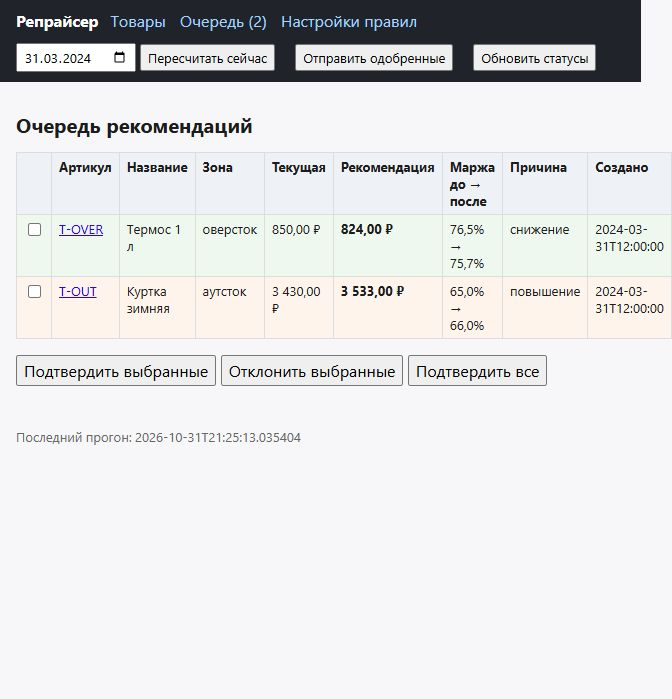
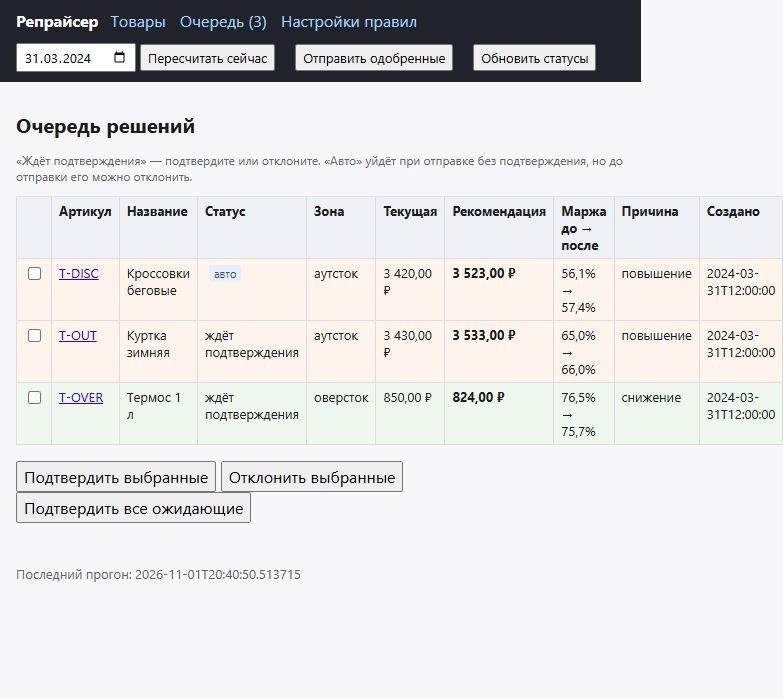
Отклонение авто-решений из очереди
- очередь показывает ожидающие подтверждения и авто с пометкой «авто»
- подтверждение действует только на pending, отклонение — на pending и auto
- счётчик очереди учитывает оба статуса
- тесты: авто в очереди, отклонение, approve не трогает auto
- обновлены README, PLAN, TESTING и скриншот очереди

diff --git a/src/repricer/web/templates/queue.html b/src/repricer/web/templates/queue.html
@@ -1,6 +1,8 @@
 {% extends "base.html" %}
 {% block content %}
-<h1>Очередь рекомендаций</h1>
+<h1>Очередь решений</h1>
+<p class="hint">«Ждёт подтверждения» — подтвердите или отклоните. «Авто» уйдёт при отправке без
+подтверждения, но до отправки его можно отклонить.</p>
 {% if not rows %}
 <p>Очередь пуста.</p>
 {% else %}
@@ -11,6 +13,7 @@
             <th></th>
             <th>Артикул</th>
             <th>Название</th>
+            <th>Статус</th>
             <th>Зона</th>
             <th>Текущая</th>
             <th>Рекомендация</th>
@@ -25,6 +28,7 @@
             <td><input type="checkbox" name="ids" value="{{ row.id }}"></td>
             <td><a href="/product/{{ row.vendor_code }}">{{ row.vendor_code }}</a></td>
             <td>{{ row.name }}</td>
+            <td>{% if row.status == 'auto' %}<span class="tag">авто</span>{% else %}ждёт подтверждения{% endif %}</td>
             <td>{{ zone_label(row.zone) }}</td>
             <td>{{ rub(row.current_price_kopecks) }}</td>
             <td><b>{{ rub(row.recommended_price_kopecks) }}</b></td>
@@ -38,7 +42,7 @@
     <p>
         <button type="submit" name="action" value="approve">Подтвердить выбранные</button>
         <button type="submit" name="action" value="reject">Отклонить выбранные</button>
-        <button type="submit" name="action" value="approve" onclick="document.querySelectorAll('input[name=ids]').forEach(c=>c.checked=true)">Подтвердить все</button>
+        <button type="submit" name="action" value="approve" onclick="document.querySelectorAll('input[name=ids]').forEach(c=>c.checked=true)">Подтвердить все ожидающие</button>
     </p>
 </form>
 {% endif %}

diff --git a/src/repricer/app/service.py b/src/repricer/app/service.py
@@ -273,26 +273,36 @@ class RepricerService:
 
     # --- очередь --------------------------------------------------------
     def approve(self, decision_ids: Iterable[int] | None = None) -> int:
-        return self._set_status(decision_ids, from_status=STATUS_PENDING, to_status=STATUS_APPROVED, event="approved")
+        return self._set_status(
+            decision_ids,
+            from_statuses=(STATUS_PENDING,),
+            to_status=STATUS_APPROVED,
+            event="approved",
+        )
 
     def reject(self, decision_ids: Iterable[int] | None = None) -> int:
-        return self._set_status(decision_ids, from_status=STATUS_PENDING, to_status=STATUS_REJECTED, event="rejected")
+        return self._set_status(
+            decision_ids,
+            from_statuses=(STATUS_PENDING, STATUS_AUTO),
+            to_status=STATUS_REJECTED,
+            event="rejected",
+        )
 
     def _set_status(
         self,
         decision_ids: Iterable[int] | None,
         *,
-        from_status: str,
+        from_statuses: tuple[str, ...],
         to_status: str,
         event: str,
     ) -> int:
         if decision_ids is None:
-            rows = self.repo.list_decisions((from_status,))
+            rows = self.repo.list_decisions(from_statuses)
         else:
             rows = [
                 row
                 for row in (self.repo.get_decision(int(i)) for i in decision_ids)
-                if row and row["status"] == from_status
+                if row and row["status"] in from_statuses
             ]
         now = self.clock()
         for row in rows:
@@ -482,7 +492,8 @@ class RepricerService:
         return rows
 
     def queue(self) -> list[dict]:
-        return self.repo.list_decisions((STATUS_PENDING,))
+        """Решения, которые ещё не отправлены: ждут подтверждения и авто."""
+        return self.repo.list_decisions((STATUS_PENDING, STATUS_AUTO))
 
     def journal(self, vendor_code: str | None = None) -> list[dict]:
         return self.repo.journal(vendor_code=vendor_code)

diff --git a/tests/test_pipeline.py b/tests/test_pipeline.py
@@ -102,6 +102,31 @@ def test_auto_rerun_does_not_duplicate(tmp_path, start_emulator):
     assert len(repo.list_decisions(("auto", "sent"))) == 1
 
 
+def test_auto_is_visible_in_queue_and_can_be_rejected(tmp_path, start_emulator):
+    service, client, repo = build(tmp_path, start_emulator, default_goods())
+    repo.set_mode("SKU-OUT", "auto", at=AS_OF)
+    service.run(as_of=AS_OF)
+
+    assert [row["status"] for row in service.queue()] == ["auto"]
+
+    assert service.reject() == 1
+    assert repo.list_decisions(("auto",)) == []
+    assert [row["vendor_code"] for row in repo.list_decisions(("rejected",))] == ["SKU-OUT"]
+
+    assert service.send()["sent"] == 0
+    market = {good.vendor_code: good for good in client.list_goods()}
+    assert market["SKU-OUT"].discounted_price_kopecks == 149000
+
+
+def test_approve_does_not_touch_auto(tmp_path, start_emulator):
+    service, _client, repo = build(tmp_path, start_emulator, default_goods())
+    repo.set_mode("SKU-OUT", "auto", at=AS_OF)
+    service.run(as_of=AS_OF)
+
+    assert service.approve() == 0
+    assert [row["status"] for row in service.queue()] == ["auto"]
+
+
 def test_approved_is_not_duplicated_before_send(tmp_path, start_emulator):
     service, _client, repo = build(tmp_path, start_emulator, default_goods())
     repo.set_mode("SKU-OUT", "recommend", at=AS_OF)

diff --git a/tests/test_web.py b/tests/test_web.py
@@ -115,6 +115,26 @@ def test_reject_hides_from_queue(tmp_path, start_emulator):
     assert repo.list_decisions(("rejected",))
 
 
+def test_auto_decision_is_shown_and_rejectable_in_queue(tmp_path, start_emulator):
+    client, _service, repo = build(tmp_path, start_emulator)
+    repo.set_mode("T-OVER", "auto", at=datetime(2024, 3, 31, 12, 0, 0))
+    client.post("/run", data={"as_of": AS_OF}, follow_redirects=False)
+
+    page = client.get("/queue")
+    assert "T-OVER" in page.text
+    assert "авто" in page.text
+
+    decision_id = repo.list_decisions(("auto",))[0]["id"]
+    client.post(
+        "/queue/decision",
+        data={"action": "reject", "ids": str(decision_id)},
+        follow_redirects=False,
+    )
+
+    assert [row["vendor_code"] for row in repo.list_decisions(("rejected",))] == ["T-OVER"]
+    assert "T-OVER" not in client.get("/queue").text
+
+
 def test_settings_page_updates_global_rules(tmp_path, start_emulator):
     client, service, _repo = build(tmp_path, start_emulator)
 

diff --git a/TESTING.md b/TESTING.md
@@ -18,8 +18,10 @@
    `Прогон: товаров 17, изменений 9, новых рекомендаций 0` — все товары в режиме «выключен»,
    рекомендации не создаются, диагностика видна.
 3. В таблице у `T-OUT`, `T-OVER` поставить режим «рекомендация», у `T-DISC` — «авто».
-4. «Пересчитать сейчас» → `новых рекомендаций 3`; ссылка «Очередь (2)».
-5. Открыть «Очередь», «Подтвердить все» → `Подтверждено: 2`.
+4. «Пересчитать сейчас» → `новых рекомендаций 3`; ссылка «Очередь (3)»: два решения ждут
+   подтверждения, `T-DISC` — «авто».
+5. Открыть «Очередь», «Подтвердить все ожидающие» → `Подтверждено: 2` (авто подтверждения
+   не требует).
 6. «Отправить одобренные» → `Отправлено: 3, ошибок: 0`.
 7. Подождать ≥ 3 секунд (задержка применения), «Обновить статусы» →
    `Обновлено задач: 1, решений: 3`.
@@ -284,15 +286,17 @@ Stop-Process -Id <PID> -Force
    но в таблице видны зона, причина и перспективная цена.
 2. «Рекомендация»: у `T-OUT` в колонке «Режим» выбрать «рек» → «ок»; прогон → рекомендация
    встаёт в очередь.
-3. «Авто»: у `T-DISC` выбрать «авто»; прогон → рекомендация получает статус `auto` и **не**
-   попадает в очередь; «Отправить одобренные» отправит её вместе с подтверждёнными.
+3. «Авто»: у `T-DISC` выбрать «авто»; прогон → решение получает статус `auto`, появляется
+   в очереди с пометкой «авто», но подтверждения не требует; «Отправить одобренные» отправит
+   его вместе с подтверждёнными. До отправки авто-решение можно отклонить.
 4. Смена режима пишется в журнал карточки событием «сменён режим».
 
 ### 4.4. Прогон, очередь и идемпотентность
 
 Подготовка: `T-OUT` и `T-OVER` — «рекомендация», `T-DISC` — «авто» (как в смоуке).
 
-1. «Пересчитать сейчас» → `новых рекомендаций 3`; «Очередь (2)» (`T-OUT` 3 533, `T-OVER` 824).
+1. «Пересчитать сейчас» → `новых рекомендаций 3`; «Очередь (3)» (`T-OUT` 3 533 и `T-OVER` 824
+   ждут подтверждения, `T-DISC` 3 523 — авто).
 2. **Повторный прогон до отправки** → `новых рекомендаций 0`, очередь по-прежнему 2.
 3. **Смена цели → замена (переопределение товара)**: в карточке `T-OVER` задать «Шаг, %» = `10` →
    «Сохранить» → прогон → цена `T-OVER` в очереди стала 765 (850 × 0,9), остальные рекомендации
@@ -310,11 +314,14 @@ Stop-Process -Id <PID> -Force
 ### 4.5. Подтверждение и отклонение
 
 1. «Очередь» → отметить один чекбокс → «Подтвердить выбранные» → `Подтверждено: 1`.
-2. Отметить два и нажать «Подтвердить все» → `Подтверждено: 2`, очередь пуста.
+2. Отметить два и нажать «Подтвердить все ожидающие» → `Подтверждено: 2`; в очереди остаётся
+   только строка «авто» (`T-DISC`), подтверждения она не требует.
 3. Отметить рекомендацию → «Отклонить выбранные» → `Отклонено: 1`, строка исчезает из очереди.
-4. Нажать «Подтвердить выбранные», ничего не отметив → `Ничего не выбрано`.
-5. Отклонение не запрещает товар: следующий прогон создаст новую рекомендацию, если цель ещё
-   актуальна (так задумано; см. PLAN §7).
+4. **Отклонение авто**: отметить строку с пометкой «авто» → «Отклонить выбранные» →
+   `Отклонено: 1`; она исчезает из очереди, и «Отправить одобренные» её уже не отправит.
+5. Нажать «Подтвердить выбранные», ничего не отметив → `Ничего не выбрано`.
+6. Отклонение не запрещает товар: следующий прогон создаст новую рекомендацию, если цель ещё
+   актуальна (так задумано; см. PLAN §7). Чтобы не создавать новую, переведите товар в «выключен».
 
 ### 4.6. Отправка, статусы, пачка
 
@@ -534,7 +541,7 @@ Invoke-RestMethod "http://127.0.0.1:8090/api/v2/history/goods/task?uploadID=$($t
 | Минимальная маржа | 4.2, 4.10 | блокирует только снижение |
 | Округление до рубля | 3.2 (`T-CHEAP`, `T-OUT`, `T-OVER`) | в сторону шага |
 | Режимы «выключен/рекомендация/авто» | 4.3 | off — диагностика без рекомендаций, auto — без подтверждения |
-| Очередь и подтверждение | 4.5 | подтверждение, отклонение, «все» |
+| Очередь и подтверждение | 4.5 | подтверждение, отклонение (включая авто), «все» |
 | Идемпотентность прогона | 4.4 | нет дублей в pending/approved/auto/sent |
 | Журнал решений | 4.8 | все события, без спама |
 | Отправка пачкой и статусы | 4.6 | один `upload_id`, `1 → 3` |
@@ -556,7 +563,7 @@ Invoke-RestMethod "http://127.0.0.1:8090/api/v2/history/goods/task?uploadID=$($t
 - [ ] Прогон в режиме «выключен»: 9 изменений, 0 рекомендаций.
 - [ ] «Рекомендация» и «авто» создают решения; авто не попадает в очередь.
 - [ ] Повторный прогон не создаёт дублей; смена цели заменяет рекомендацию.
-- [ ] Подтверждение, отклонение, «подтвердить все», «ничего не выбрано».
+- [ ] Подтверждение, отклонение (включая авто), «подтвердить все», «ничего не выбрано».
 - [ ] Отправка: пачка, `Отправлено: N`, статусы `1 → 3`, применение.
 - [ ] Цены на площадке совпали с ожидаемыми (включая `T-DISC` со скидкой).
 - [ ] Карантин на профиле с порогом 2%: цена не изменилась, статус `quarantine`.

diff --git a/PLAN.md b/PLAN.md
@@ -89,7 +89,7 @@ repricer/
 | Отправка | одна пачка на все одобренные решения; повторная одинаковая пачка получает `alreadyExists: true` |
 | Статусы площадки | `1` — в обработке, `3` — обработана; карантин распознаётся по `errorCode` или тексту ошибки |
 | Пауза в историческом расчёте | учитываются только изменения, подтверждённые до даты расчёта (`resolved_at <= as_of`) |
-| Режим «Авто» | решение сразу в статусе `auto` и уходит при ближайшей отправке, без подтверждения |
+| Режим «Авто» | решение сразу в статусе `auto`, видно в очереди с пометкой «авто», уходит без подтверждения; до отправки его можно отклонить |
 | Журнал «цена не менялась» | пишется только при смене состояния, повторные прогоны не засоряют журнал |
 | Планировщик | поток внутри веб-процесса; интервал в минутах из настроек, `0` — выключен; занятый прогон пропускается; дата расчёта планового прогона — системное время (вне ядра) |
 | Идемпотентность прогона | активные решения — `pending`, `approved`, `auto`, `sent`; совпавшая цель — пропуск, другая — замена (кроме `sent`: пока площадка не ответила, новую не создаём) |
